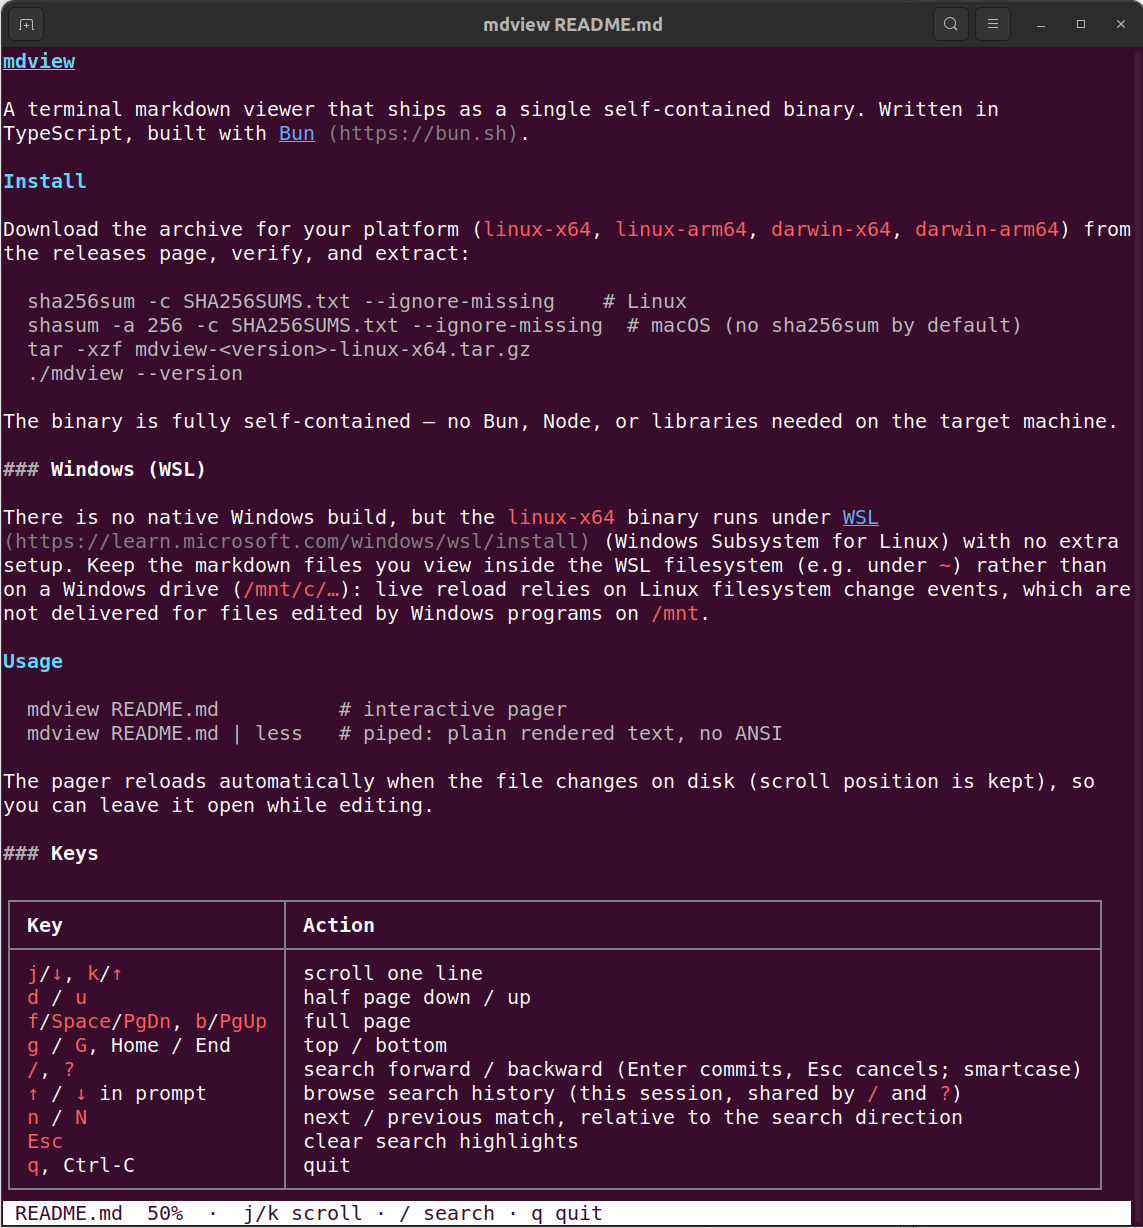
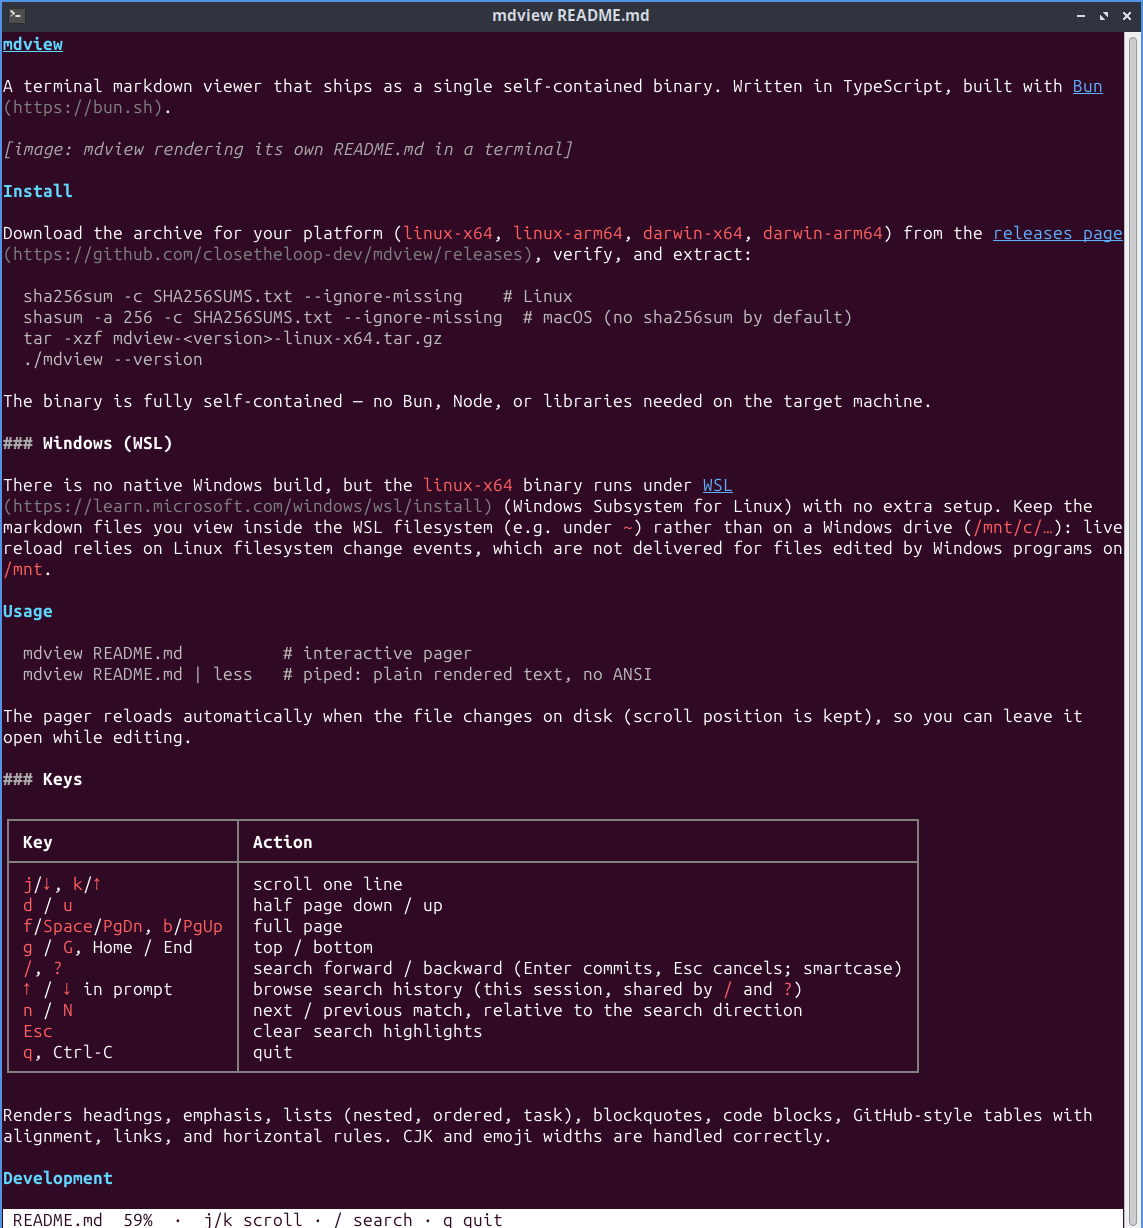
Add link to releases page and update demo screenshot

diff --git a/README.md b/README.md
@@ -8,7 +8,9 @@ Written in TypeScript, built with [Bun](https://bun.sh).
 ## Install
 
 Download the archive for your platform (`linux-x64`, `linux-arm64`,
-`darwin-x64`, `darwin-arm64`) from the releases page, verify, and extract:
+`darwin-x64`, `darwin-arm64`) from the
+[releases page](https://github.com/closetheloop-dev/mdview/releases), verify,
+and extract:
 
 ```sh
 sha256sum -c SHA256SUMS.txt --ignore-missing    # Linux
